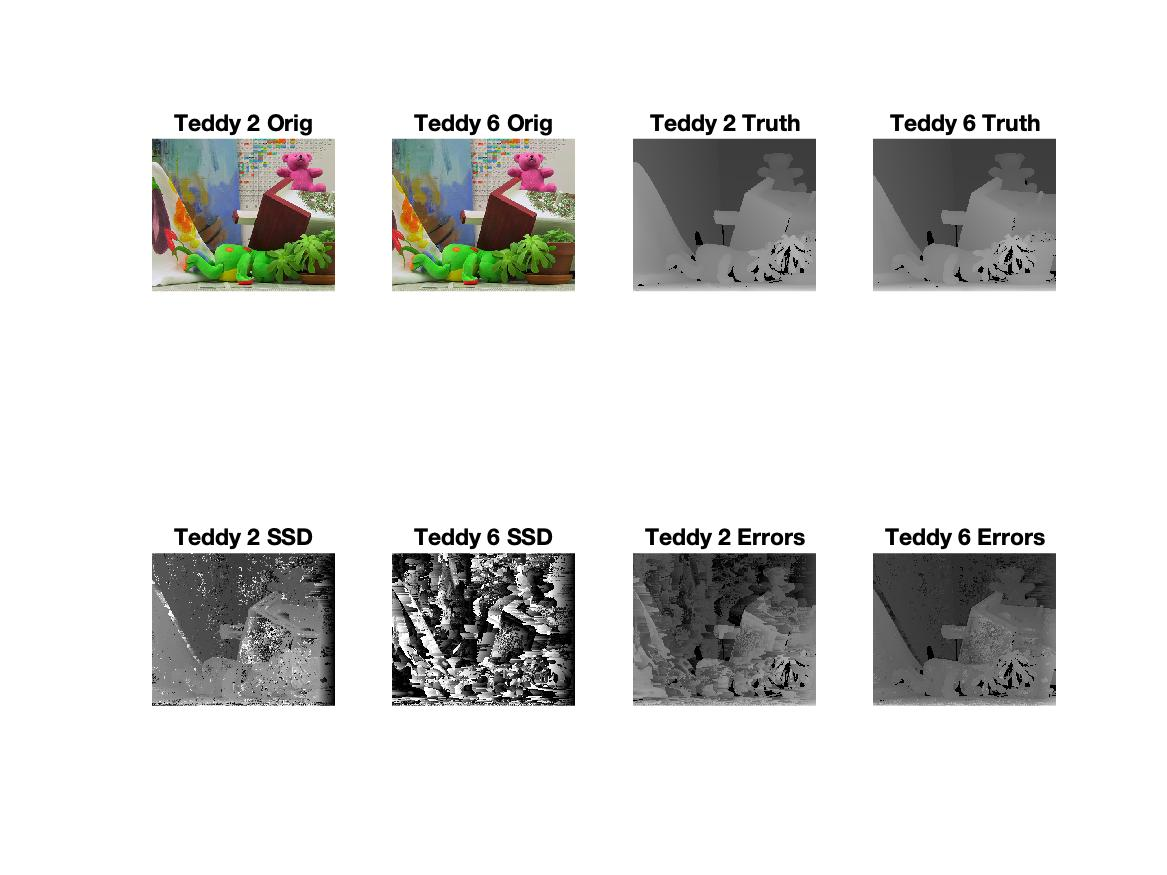
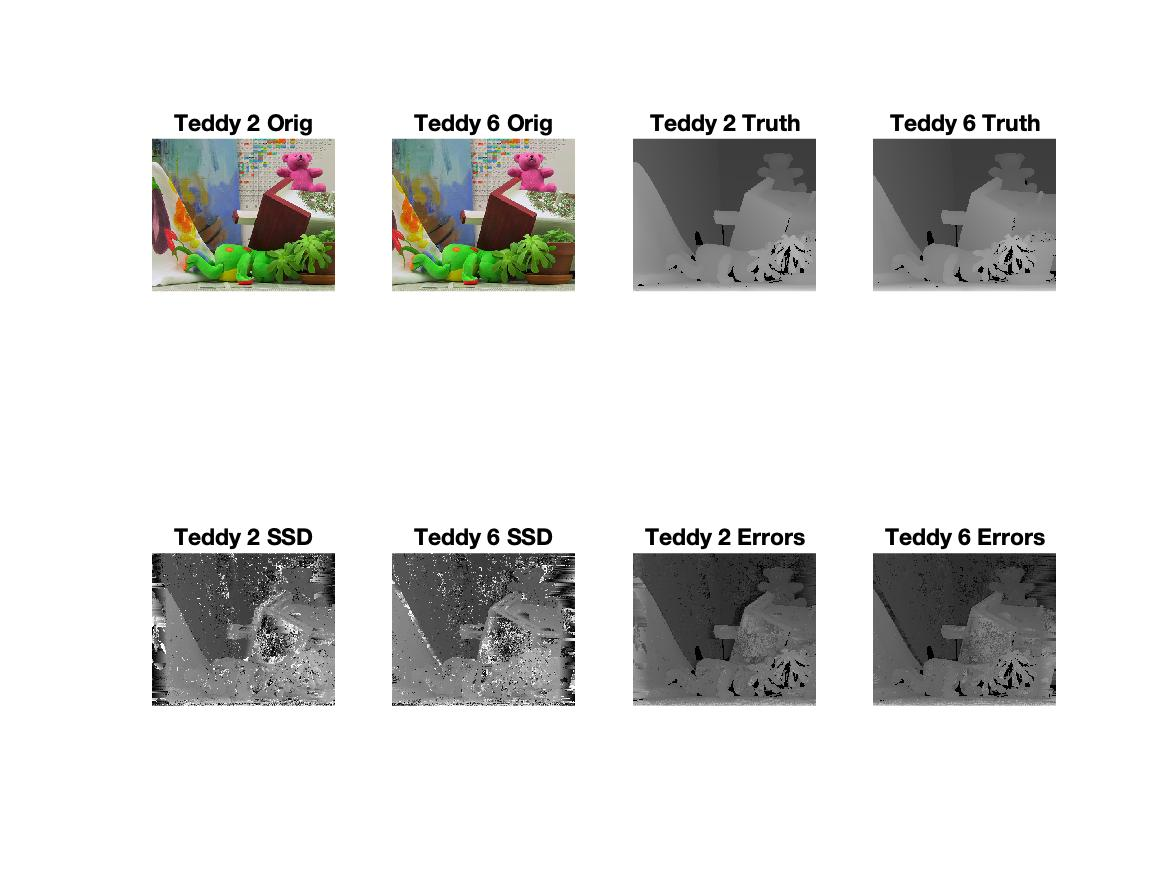
Q6 not being crappy anymore

Changed region(s): [[0.1234, 0.6171, 0.4936, 0.8331], [0.5244, 0.6171, 0.7095, 0.8023], [0.8329, 0.7097, 0.8638, 0.7406]]

diff --git a/H4/H4_post_for_students/vision_hwk4.m b/H4/H4_post_for_students/vision_hwk4.m
@@ -152,8 +152,8 @@ disp6 = disparitySSD(im6Gray, im2Gray, 5);
 dispTruth2 = imread("./teddy/disp2.png");
 dispTruth6 = imread("./teddy/disp6.png");
 
-errors2 = dispTruth2 - uint8(disp6);
-errors6 = dispTruth6 - uint8(disp2);
+errors2 = dispTruth2 - uint8(disp2);
+errors6 = dispTruth6 - uint8(disp6);
 
 figure
 subplot(2, 4, 1)
